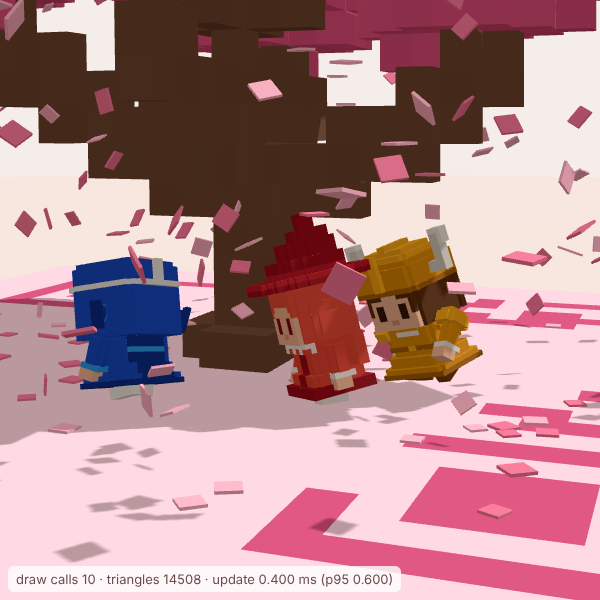
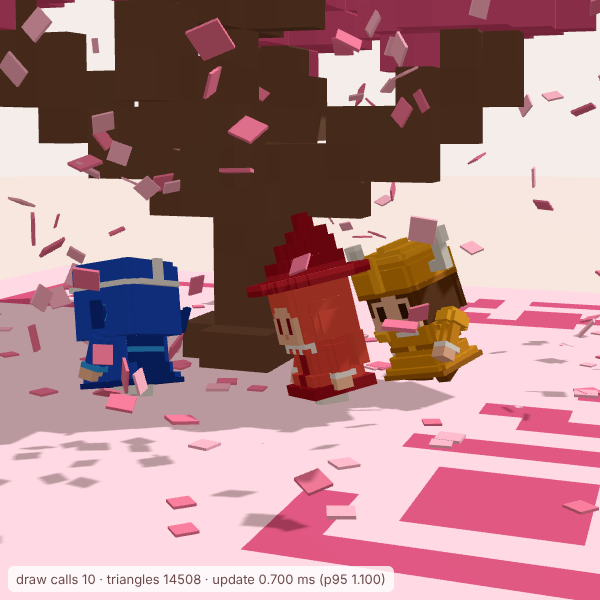
Petals: no popping up on ledges, no resting in mid-air
- A petal used to settle as soon as any part of its collision circle (radius ~0.6 cube) met a ledge, so
  petals next to a block's edge stopped in mid-air level with its top. Now one settles only with ground under
  its middle (checked at the centre and 0.2 cube round it); caught on an edge it slips off and keeps falling.
- Side spawns need a 3-cube drop below, and underside spawns a clear fall to the plate, so petals are seen
  falling rather than appearing on a ledge just to fade, and don't wedge among the branches by the trunk.
- Petals begin to fall while they grow in. One that is truly wedged fades after 0.4 s (3 times in 110 s,
  all beside the trunk under the canopy).
- Self-check: every resting petal (flat and still) must have the tree within 0.1 cube straight below its
  centre — 609 failures with the old code, 0 now. The scene keeps landing/slip/fade counters in
  userData.stats for this.

Claude-Session: https://claude.ai/code/session_01FetaT53w5iQdLWHoFnmCoa

diff --git a/scene.js b/scene.js
@@ -36,6 +36,7 @@ export default async function setup({ THREE = THREE_NS, stage, tree, info, mode 
   const root = new THREE.Group();
   root.name = 'SakuraQR-animation';
   root.userData.mode = mode;
+  const stats = root.userData.stats = { landed: 0, slippedOff: 0, fadedInAir: 0 };   // counters, for tests
   new THREE.Matrix4().copy(stage.matrixWorld).invert().multiply(tree.matrixWorld)
     .decompose(root.position, root.quaternion, root.scale);
   root.scale.multiplyScalar(cell);
@@ -115,11 +116,10 @@ export default async function setup({ THREE = THREE_NS, stage, tree, info, mode 
         p.scale = 0;
         if (p.timer > 0) respawn(p);
         return;
-      case GROW:
+      case GROW:                                          // grows in while it already starts to fall
         p.scale = Math.min(1, p.timer / 0.6);
-        p.angle += p.spin * dt * 0.3;
         if (p.timer >= 0.6) { p.state = FALL; p.timer = 0; }
-        return;
+        break;
       case REST:
         if (active) kick(p);
         if (p.state === REST && p.timer > p.restFor) { p.state = FADE; p.timer = 0; }
@@ -153,8 +153,17 @@ export default async function setup({ THREE = THREE_NS, stage, tree, info, mode 
     if (p.vy < 0) {
       const g = field.footGround(p.x, p.z, p.y - r + 1e-4, rh);
       if (ny - r <= g) {
-        p.y = g + PETAL_THICK / 2 + 0.01;
-        p.state = REST; p.timer = 0; p.restFor = 2 + rand() * 3.5; p.ground = g;
+        // only settle with something right under the petal's middle; caught on an edge, it slips off it
+        if (field.supported(p.x, p.z, p.y - r + 1e-4, g)) {
+          p.y = g + PETAL_THICK / 2 + 0.01;
+          p.state = REST; p.timer = 0; p.restFor = 2 + rand() * 3.5; p.ground = g; p.airFade = false; stats.landed++;
+        } else {
+          const [dx, dz] = field.supportDir(p.x, p.z, p.y - r + 1e-4, rh, g);
+          p.ix = -dx * 3; p.iz = -dz * 3; p.vy = Math.min(p.vy, -0.2);
+          if (!p.stuck) stats.slippedOff++;
+          p.stuck = (p.stuck || 0) + dt;
+          if (p.stuck > 0.4) { p.state = FADE; p.timer = 0; p.stuck = 0; p.airFade = true; stats.fadedInAir++; if (stats.where) stats.where.push([p.x, p.y, p.z, g, dx, dz].map(n => +n.toFixed(2))); }   // wedged where it can't slip off: let it go
+        }
         return;
       }
     } else {
@@ -162,6 +171,7 @@ export default async function setup({ THREE = THREE_NS, stage, tree, info, mode 
       if (ny + r >= c) { p.vy = 0; return; }
     }
     p.y = ny;
+    p.stuck = 0;
     p.angle += p.spin * dt;
   }
 
@@ -187,7 +197,7 @@ export default async function setup({ THREE = THREE_NS, stage, tree, info, mode 
     for (let i = 0; i < PETALS; i++) {
       const p = P[i];
       qYaw.setFromAxisAngle(up, p.yaw);
-      if (p.state === FALL || p.state === GROW) q.setFromAxisAngle(p.axis, p.angle).multiply(qYaw); else q.copy(qYaw);
+      if (p.state === FALL || p.state === GROW || (p.state === FADE && p.airFade)) q.setFromAxisAngle(p.axis, p.angle).multiply(qYaw); else q.copy(qYaw);
       const s = p.scale * p.size;
       pos.set(p.x, p.y, p.z); scl.set(s, s, s);
       petalMesh.setMatrixAt(i, mat.compose(pos, q, scl));
@@ -371,6 +381,19 @@ function buildField(THREE, tree, info) {
       for (const [u, v] of OFF) g = Math.max(g, ground(x + u * r, z + v * r, y));
       return g;
     },
+    // is there ground at height g under the middle and 0.2 to each side (so, allowing for the grid's coarseness,
+    // really under the petal's middle)?
+    supported(x, z, y, g) {
+      for (const [u, v] of [[0, 0], [0.2, 0], [-0.2, 0], [0, 0.2], [0, -0.2]]) if (ground(x + u, z + v, y) < g - 0.05) return false;
+      return true;
+    },
+    // unit direction from (x, z) towards the footprint points whose ground is at height g
+    supportDir(x, z, y, r, g) {
+      let dx = 0, dz = 0;
+      for (const [u, v] of OFF) if (ground(x + u * r, z + v * r, y) >= g - 0.05) { dx += u; dz += v; }
+      const n = Math.hypot(dx, dz) || 1;
+      return [dx / n, dz / n];
+    },
     footCeil(x, z, y, r) {
       let c = Infinity;
       for (const [u, v] of OFF) c = Math.min(c, ceil(x + u * r, z + v * r, y));
@@ -391,7 +414,8 @@ function spawnPoints(field, info, plateTop) {
       const b = runs[k], below = runs[k - 1];
       if (b - below < 2 * r + 0.5 || b < plateTop + 3) continue;
       const y = b - r - 0.05;
-      if (!field.footBlocked(x, z, y - r, y + r, rh)) under.push(x, y, z);
+      // only where the fall is clear all the way to the plate (not into the branches round the trunk)
+      if (!field.footBlocked(x, z, y - r, y + r, rh) && field.footGround(x, z, y - r, rh) <= plateTop + 0.01) under.push(x, y, z);
     }
     for (const [di, dj] of NB) {                             // beside a canopy wall, at least a cube below its top
       const ni = i + di, nj = j + dj;
@@ -401,7 +425,8 @@ function spawnPoints(field, info, plateTop) {
         const b = wall[k], t = wall[k + 1];
         if (t < plateTop + 4) continue;                      // trunk base and roots: not canopy
         for (let y = Math.max(b, plateTop + 3) + r; y <= t - 1 - r; y += 1) {
-          if (!field.footBlocked(x, z, y - r, y + r, rh)) side.push(x, y, z);
+          // clear air beside the wall with a long drop below, so the petal is seen falling, not popping up on a ledge
+          if (!field.footBlocked(x, z, y - r, y + r, rh) && field.footGround(x, z, y - r, rh) < y - r - 3) side.push(x, y, z);
         }
       }
     }

diff --git a/index.html b/index.html
@@ -155,7 +155,8 @@ renderer.setAnimationLoop(now => {
 //  * is everything within the plate plus 3 cubes and above y = 0, do the walkers stay on the plate?
 //  * do two walkers ever come closer than their radii allow?
 async function check() {
-  const out = { samples: 0, points: 0, insideTree: [], outOfBounds: [], offPlate: [], walkerOverlap: 0, petalsAboveCanopy: 0, aboveCanopy: [], petalsLanded: { plate: 0, canopy: 0 } };
+  stage.getObjectByName('SakuraQR-animation').userData.stats.where = [];
+  const out = { samples: 0, points: 0, insideTree: [], outOfBounds: [], offPlate: [], walkerOverlap: 0, petalsAboveCanopy: 0, aboveCanopy: [], petalsFloating: 0, floating: [], petalsLanded: { plate: 0, canopy: 0 } };
   const solid = [];
   tree.updateMatrixWorld(true);
   tree.traverse(o => {
@@ -173,6 +174,7 @@ async function check() {
   const corners = [];
   for (const x of [-0.25, 0.25]) for (const y of [-0.03, 0.03]) for (const z of [-0.25, 0.25]) corners.push(new THREE.Vector3(x, y, z));
   const m4 = new THREE.Matrix4(), v = new THREE.Vector3(), seen = new Set();
+  const prevPos = [];
   const note = (list, what) => { if (list.length < 20) list.push(what); };
   const walkers = [];
   root.traverse(o => { if (o.isSkinnedMesh) walkers.push(o); });
@@ -180,6 +182,9 @@ async function check() {
 
   for (let step = 0; step <= 90 * 30; step++) {
     if (step) { timedUpdate(1 / 30, elapsed); elapsed += 1 / 30; }
+    if (step % 90 === 89) {                   // remember where every petal is, one frame before each sample
+      for (let i = 0; i < petals.count; i++) { petals.getMatrixAt(i, m4); m4.premultiply(petals.matrixWorld); prevPos[i] = [m4.elements[12], m4.elements[13], m4.elements[14]]; }
+    }
     if (step % 90) continue;
     out.samples++;
     stage.updateMatrixWorld(true);
@@ -213,19 +218,26 @@ async function check() {
         if (inside(v)) note(out.insideTree, ['petal ' + i, step / 30, v.toArray().map(n => +(n / cell).toFixed(2))]);
       }
       const e = m4.elements;
-      if (Math.abs(e[5]) < 0.99 * Math.hypot(e[4], e[5], e[6])) {        // tumbling → in the air: not above the canopy top near it
+      const pp = prevPos[i], still = pp && pp[0] === e[12] && pp[1] === e[13] && pp[2] === e[14];
+      if (!still) {                                                        // moving → in the air: not above the canopy top near it
         const g = info.grid, col = Math.floor((e[12] - g.origin[0]) / cell), row = Math.floor((e[14] - g.origin[1]) / cell);
         let top = 0;
         for (let r = row - 2; r <= row + 2; r++) for (let c = col - 2; c <= col + 2; c++) if (g.surface[r] && g.surface[r][c] > top) top = g.surface[r][c];
         if (top > 1 && e[13] / cell > top) { out.petalsAboveCanopy++; note(out.aboveCanopy, ['petal ' + i, step / 30, [e[12] / cell, e[13] / cell, e[14] / cell].map(n => +n.toFixed(2)), top]); }
       }
-      if (Math.abs(e[5]) > 0.99 * Math.hypot(e[4], e[5], e[6])) {        // lying flat → resting
+      if (still && Math.abs(e[5]) > 0.99 * Math.hypot(e[4], e[5], e[6])) {        // lying flat and not moving → resting
         const y = e[13] / cell;
         if (y < info.plate.top / cell + 0.1) out.petalsLanded.plate++; else out.petalsLanded.canopy++;
+        // something must be right under its middle: a ray straight down from the centre hits the tree within reach
+        ray.set(new THREE.Vector3(e[12], e[13], e[14]), new THREE.Vector3(0.0011, -1, 0.0017).normalize());
+        ray.far = 0.1 * cell;
+        if (!ray.intersectObjects(solid, false).length) { out.petalsFloating++; note(out.floating, ['petal ' + i, step / 30, [e[12] / cell, e[13] / cell, e[14] / cell].map(n => +n.toFixed(2))]); }
+        ray.far = Infinity;
       }
     }
     await new Promise(r => setTimeout(r));
   }
+  out.petalStats = Object.assign({}, root.userData.stats);
   // dispose() must leave the stage as it found it; then set up again (same seed, same start)
   anim.dispose();
   out.stageAfterDispose = stage.children.map(o => o.name);

diff --git a/README.md b/README.md
@@ -23,7 +23,7 @@ const { update, dispose } = await setup({ THREE, stage, tree, info, mode });
 ## 场景
 
 - **不放进树里。** 启动时把树自己的三角形按每格 4×4 的分辨率栅格化成竖直的“柱”，每根柱记下哪几段高度是实心的。花瓣和小人只会移动到这些柱显示为空的地方，所以别的码长出来的树也能直接用。
-- **花瓣。** 240 片，两种粉色，用一个 InstancedMesh 画。花瓣从树冠下沿和树冠外侧的侧壁冒出来，从不出现在树冠上方，一开始就往下走，被风吹着边转边落，落在底座或较低的树冠台阶上。停几秒后缩小消失（材质只用不透明的，所以用缩小代替淡出），再从树冠里重新出现。小人跑过时会把地上的花瓣踢起来。
+- **花瓣。** 240 片，两种粉色，用一个 InstancedMesh 画。花瓣从树冠外侧的侧壁和树冠下沿冒出来，而且只选下方有足够落差的位置：侧壁旁至少 3 格，树冠下沿则要能一直落到底座。花瓣从不出现在树冠上方，一边长出来一边就开始往下飘，被风吹着边转边落。只有正中间下面有东西时才会停下，碰到台阶边缘会滑下去，所以不会停在半空。落点大多是底座，少数落在较低的树冠台阶上。停几秒后缩小消失（材质只用不透明的，所以用缩小代替淡出），再从树冠里重新出现。小人跑过时会把地上的花瓣踢起来。
 - **小人。** `assets/walker-{blue,red,gold}.glb`，配色照参考像素小人：蓝色兜帽配两条辫子、红色法师帽、带角的金色头盔。每个小人是一个蒙皮网格，带一段 `run` 循环动画：身体前倾，并随摆臂左右扭转；手臂和腿大幅摆动；身体在双脚离地时最高、腿经过身下时最低。每一帧都整体抬高到最低点刚好贴地。蓝色小人的两条辫子是单独的关节：平时下垂，每次身体起伏后慢半拍甩起来，跑动时往后飘。
   - 小人沿一个以树干为圆心的圆跑，半径是树干到最近底座边缘距离的一半。只有遇到低矮的树枝和树根时才会偏离圆形绕过去。转弯时身体向内侧倾斜。
   - 蓝色领跑，红色和金色紧跟在后面，彼此忽近忽远。
@@ -52,6 +52,7 @@ node test/shots.mjs         # 无头 Chromium 跑自检，截图到 screenshots/
 - 有没有东西超出底座 3 格，或者低于 y = 0。
 - 小人有没有走出底座，彼此有没有撞上。
 - 有没有花瓣飘在附近树冠顶面的上方。
+- 每片停住的花瓣（平躺且不动），正中间往下 0.1 格内必须碰到树或底座。
 - 绘制调用、三角形数和 `update()` 的耗时。
 - `dispose()` 之后 stage 里是不是只剩下树。
 
